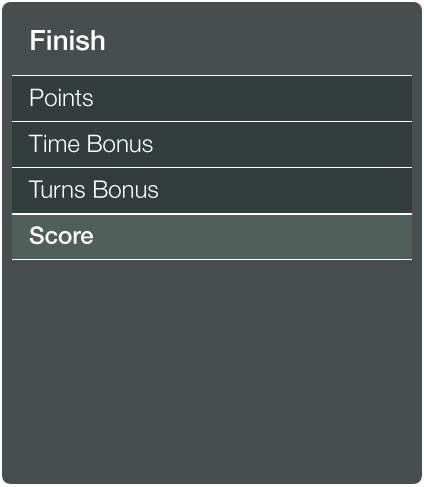
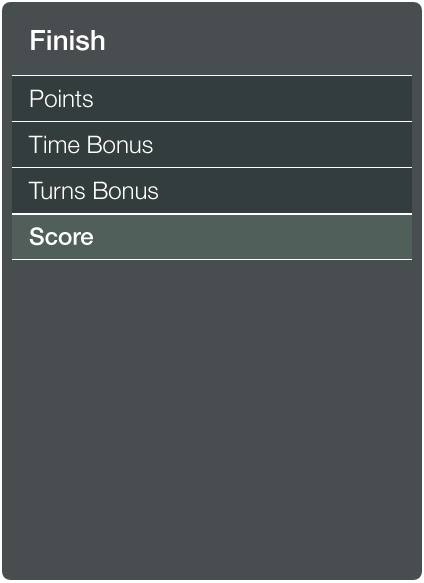
ad sharing button to game finish view

Changed region(s): [[0.0307, 0.0308, 0.9811, 0.5236], [0.0, 0.9856, 1.0, 1.0], [0.9811, 0.0, 1.0, 0.0308]]

diff --git a/TwoOfOne/ViewController.swift b/TwoOfOne/ViewController.swift
@@ -705,6 +705,10 @@ class ViewController: UIViewController, SCNSceneRendererDelegate, UIAlertViewDel
         }
     }
     
+    @IBAction func onGameFinisSharePressed(sender: AnyObject) {
+        // share game score
+    }
+    
     //MARK: UIAlertViewDelegate
     
     func alertView(alertView: UIAlertView, didDismissWithButtonIndex buttonIndex: Int) {
